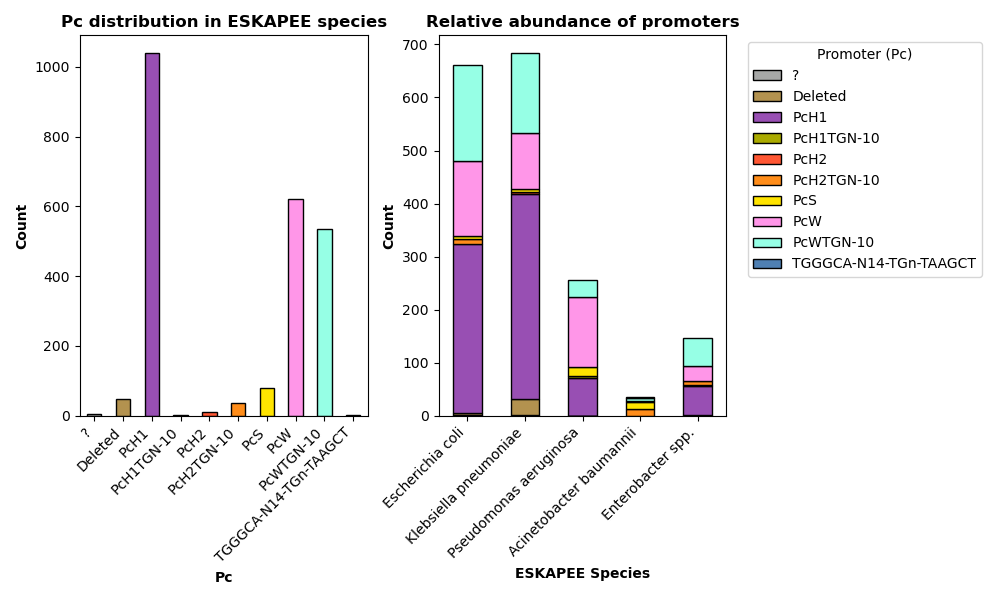
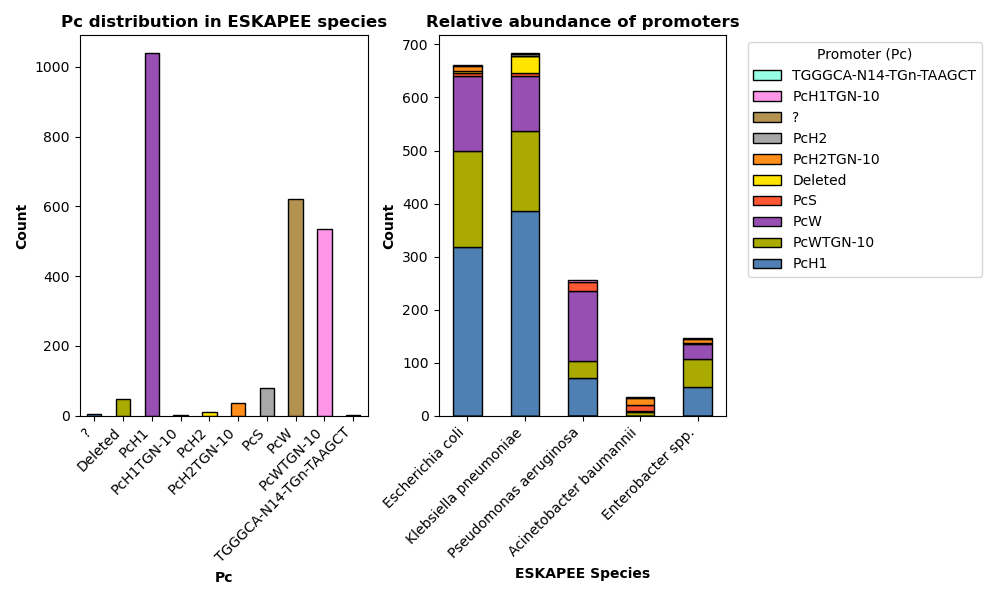
changing the order of stacked bars in plots

diff --git a/scripts/T1_Integrall_Pc_abundance.py b/scripts/T1_Integrall_Pc_abundance.py
@@ -109,7 +109,8 @@ def count_table_plots(count_table,
     """
     Generates and displays two side-by-side bar plots: 
     - one for general relative Pc abundance 
-    - one for stacked Pc distribution within ESKAPEE species.
+    - one for stacked Pc distribution within ESKAPEE species, with the Pc
+      ordered by abundance.
 
     Args
     ------
@@ -121,9 +122,15 @@ def count_table_plots(count_table,
     # Plots of both counts
 
     # Colors for the Pcs:
-    colors = ["#A7A8A7", "#B3924F", "#984FB3", "#AAAA00", "#FF5733", 
-               "#FF8D1A", "#FFE400", "#FF96E8", "#96FFE5", "#4F80B3" ]
-
+    colors = ["#4F80B3", "#AAAA00", "#984FB3", "#FF5733", "#FFE400", 
+              "#FF8D1A", "#A7A8A7", "#B3924F", "#FF96E8", "#96FFE5"]
+    
+    pc_names = count_table.drop(columns=["Total"]).columns
+    # Fixed color for each Pc by name
+    pc_colors = {}
+    for idx in range(len(pc_names)): # Iterates over pc variants, and assigns a color
+        pc_colors[pc_names[idx]] = colors[idx]
+    
     # Size of the plot
     plt.figure(figsize=(10, 6))
 
@@ -135,34 +142,49 @@ def count_table_plots(count_table,
     # New df with the general abundance of Pc 
     df_total = df_plot.sum(axis=1) 
 
+    # Colors of the bars, in the same order as the Pc of df_total
+    colors_total = []
+    for pc in df_total.index:
+        colors_total.append(pc_colors[pc])
+    
     # Bar chart with the defined colors 
-    df_total.plot(kind="bar", color=colors, edgecolor="black")
+    df_total.plot(kind = "bar", 
+                  color = colors_total, 
+                  edgecolor = "black")
 
     # Labels
-    plt.title(title[0], fontweight="bold")
-    plt.xlabel("Pc", fontweight="bold")
-    plt.ylabel("Count", fontweight="bold")
-    plt.xticks(rotation=45, ha="right")
+    plt.title(title[0], fontweight = "bold")
+    plt.xlabel("Pc", fontweight = "bold")
+    plt.ylabel("Count", fontweight = "bold")
+    plt.xticks(rotation = 45, ha = "right")
 
     # Plot 2: ESKAPEE Species
     plt.subplot(1, 2, 2)
     
     # ESKAPEE species filter and Total column removal 
     df_plot_eskapee = eskapee_count_table.loc[eskapee].drop(columns=["Total"]) 
+    
+    # Order the Pc by total abundance
+    order = df_plot_eskapee.sum().sort_values(ascending=False).index
+    df_plot_eskapee = df_plot_eskapee[order]
 
     df_plot_eskapee.plot(kind = "bar", 
                          ax = plt.gca(), # To avoid generating two plots
                          stacked = True, # Stacked bars
-                         color = colors, 
+                         color = colors_total, 
                          edgecolor = "black")
 
-    plt.title(title[1], fontweight="bold")
-    plt.xlabel("ESKAPEE Species", fontweight="bold")
-    plt.ylabel("Count", fontweight="bold")
-    plt.xticks(rotation=45, ha="right")
-   
+    plt.title(title[1], fontweight = "bold")
+    plt.xlabel("ESKAPEE Species", fontweight = "bold")
+    plt.ylabel("Count", fontweight = "bold")
+    plt.xticks(rotation = 45, ha = "right")
+
+    # Legend in the same order as the stack (most abundant at the bottom)
+    handles, labels = plt.gca().get_legend_handles_labels()
+    
     # Plot legend (Pc colors)
-    plt.legend(title="Promoter (Pc)", bbox_to_anchor=(1.05, 1), loc="upper left")
+    plt.legend(handles[::-1], labels[::-1], 
+               title = "Promoter (Pc)", bbox_to_anchor = (1.05, 1), loc = "upper left")
     plt.tight_layout() # Size adjustment
     # Saves the plot
     plt.savefig(os.path.join(outdir, filename))
